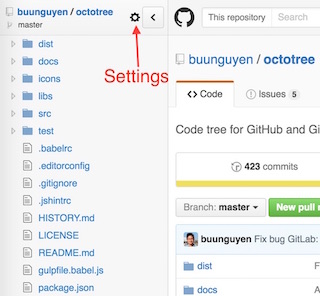
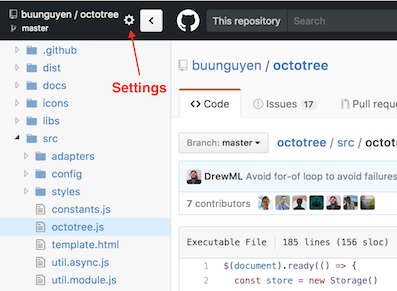
Adapt styles to new github header design (#367)

diff --git a/src/adapters/github.less b/src/adapters/github.less
@@ -5,7 +5,8 @@
 
   .octotree_github_sidebar {
     a.octotree_toggle {
-      right: 5px;
+      right: 12px;
+      top: 12px;
       &:not(.octotree_loading) > span:after {
         content: data-uri('image/svg+xml;charset=UTF-8', './octicons/chevron-left.svg');
       }
@@ -21,21 +22,26 @@
 }
 
 .octotree_github_sidebar {
-  padding-top: 49px;
+  padding-top: 54px;
   background-color: #f7f7f7;
+  border-right: none;
 
   .octotree_github_only {
     display: block;
   }
 
   .octotree_views {
+    border-right: 1px solid #ddd;
+    background-color: #fafbfc;
+
     .octotree_view {
       .octotree_view_header {
-        height: 49px;
-        background-color: #f3f3f3;
-        background-image: linear-gradient(#f9f9f9, #f3f3f3);
-        background-repeat: repeat-x;
-        border-bottom: 1px solid #e5e5e5;
+        font-weight: normal;
+        color: #eee;
+        text-shadow: none;
+        height: 54px;
+        line-height: 2.8;
+        background: #24292e none;
       }
 
       .octotree_help {
@@ -48,6 +54,11 @@
     .octotree_treeview {
       .octotree_header_repo {
         font-size: 13px;
+        font-weight: normal;
+        a {
+          color: #eee;
+          font-weight: normal;
+        }
       }
       .octotree_header_repo:before {
         position: relative;
@@ -105,18 +116,18 @@
   }
 
   a.octotree_opts {
-    top: 16px;
-    right: 38px;
-    width: 14px;
+    top: 19px;
+    right: 48px;
+    width: 16px;
     height: 16px;
-    background: data-uri('image/svg+xml;charset=UTF-8', './octicons/gear.svg');
+    background: data-uri('image/svg+xml;charset=UTF-8', 'octicons/light-gear.svg');
     &:hover {
-      background: data-uri('image/svg+xml;charset=UTF-8', './octicons/gear-hover.svg');
+      background: data-uri('image/svg+xml;charset=UTF-8', './octicons/light-gear-hover.svg');
     }
   }
 
   a.octotree_toggle {
-    top: 9px;
+    top: 12px;
     right: -35px;
 
     &:not(.octotree_loading) > span:after {

diff --git a/src/adapters/gitlab.less b/src/adapters/gitlab.less
@@ -6,7 +6,7 @@
   .octotree_gitlab_sidebar {
     a.octotree_toggle {
       top: 11px;
-      right: 5px;
+      right: 8px;
       &:not(.octotree_loading) > span:after {
         content: '\f104';
       }
@@ -114,7 +114,7 @@
 
   a.octotree_opts {
     top: 17px;
-    right: 38px;
+    right: 44px;
 
     & > span {
       font: normal normal 16px FontAwesome;
